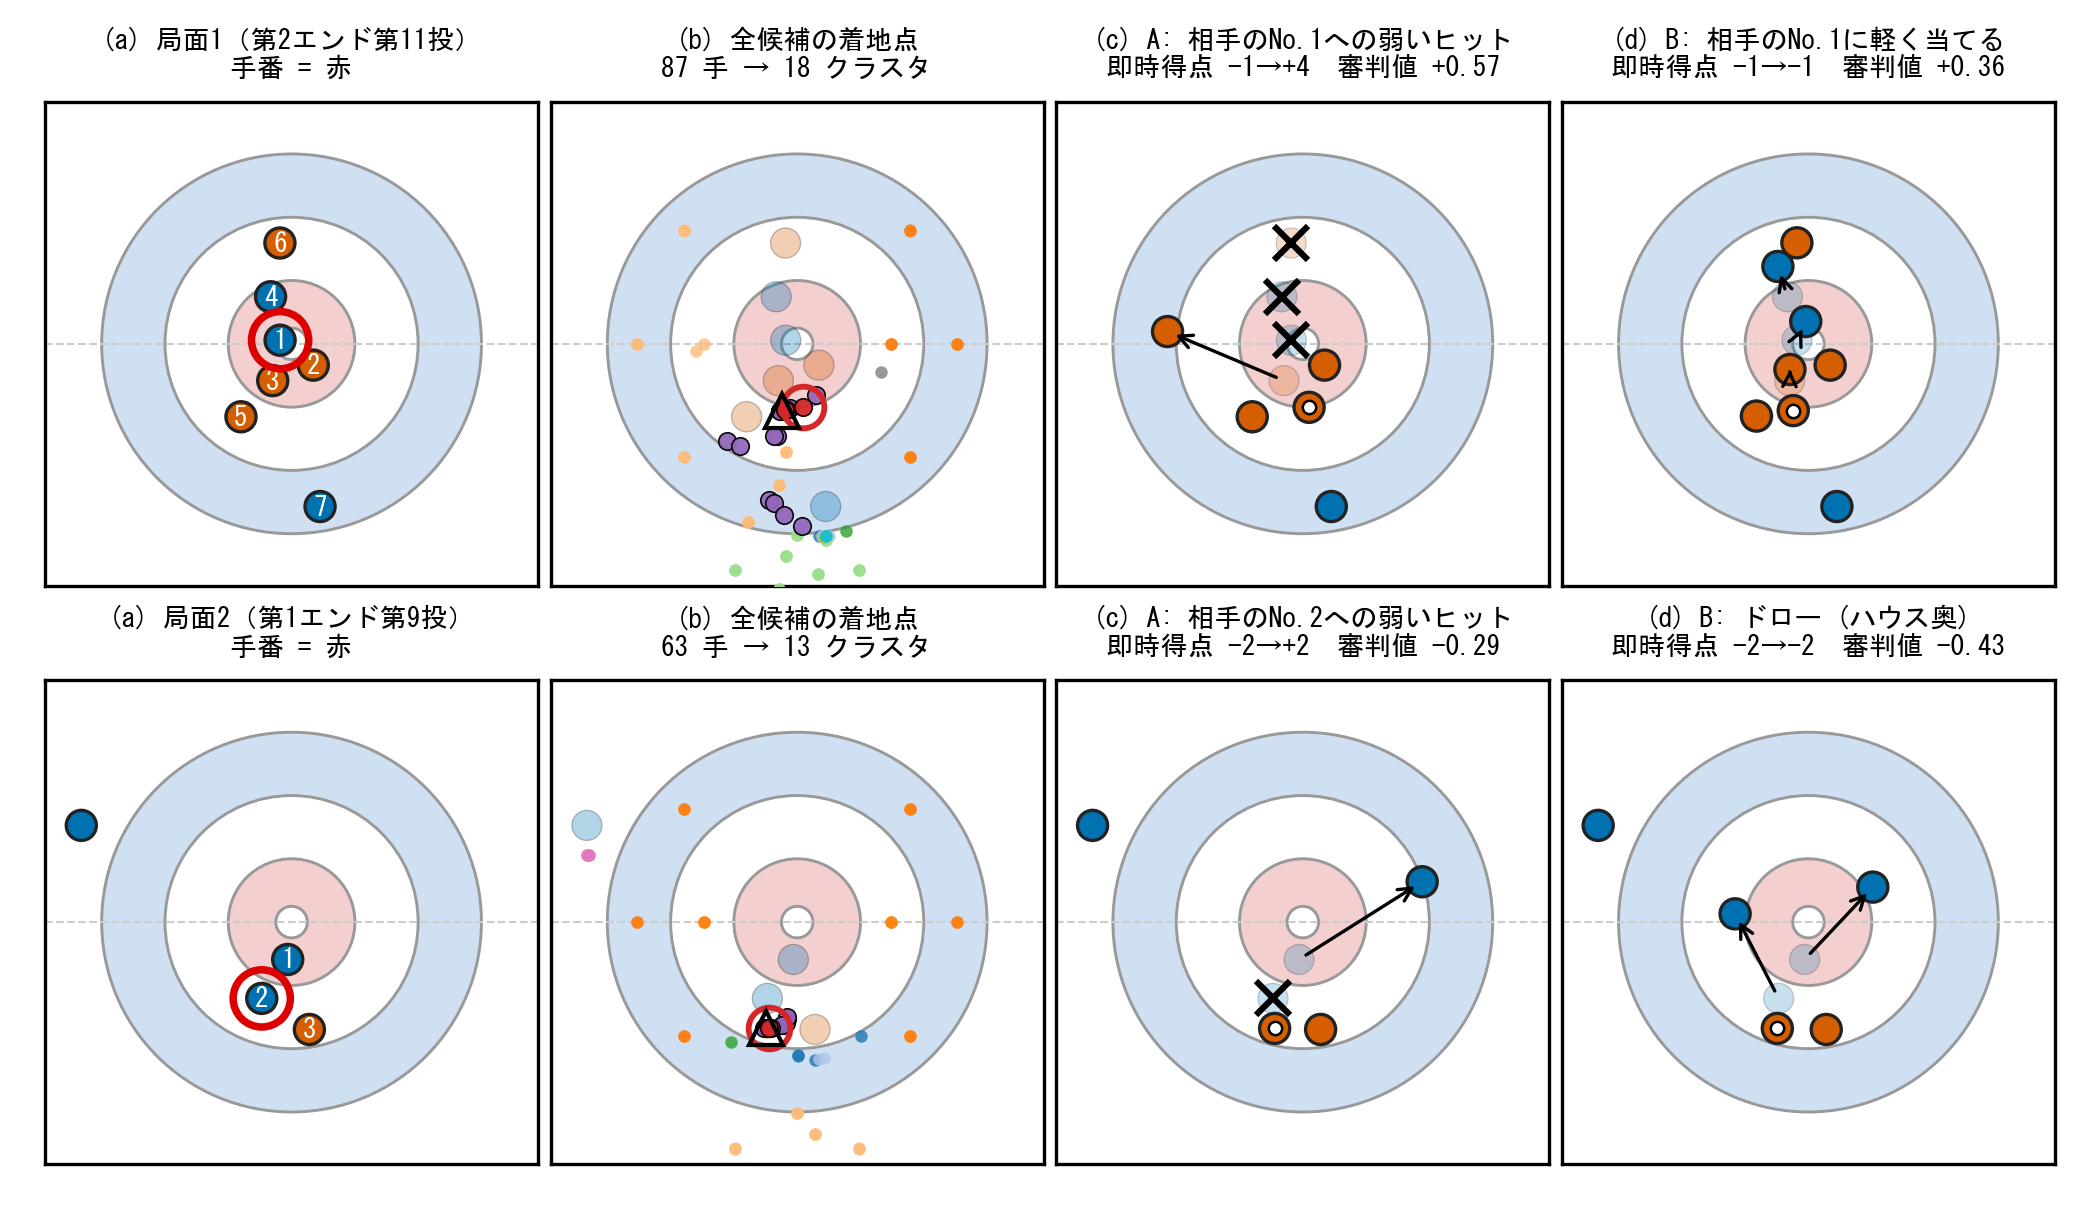
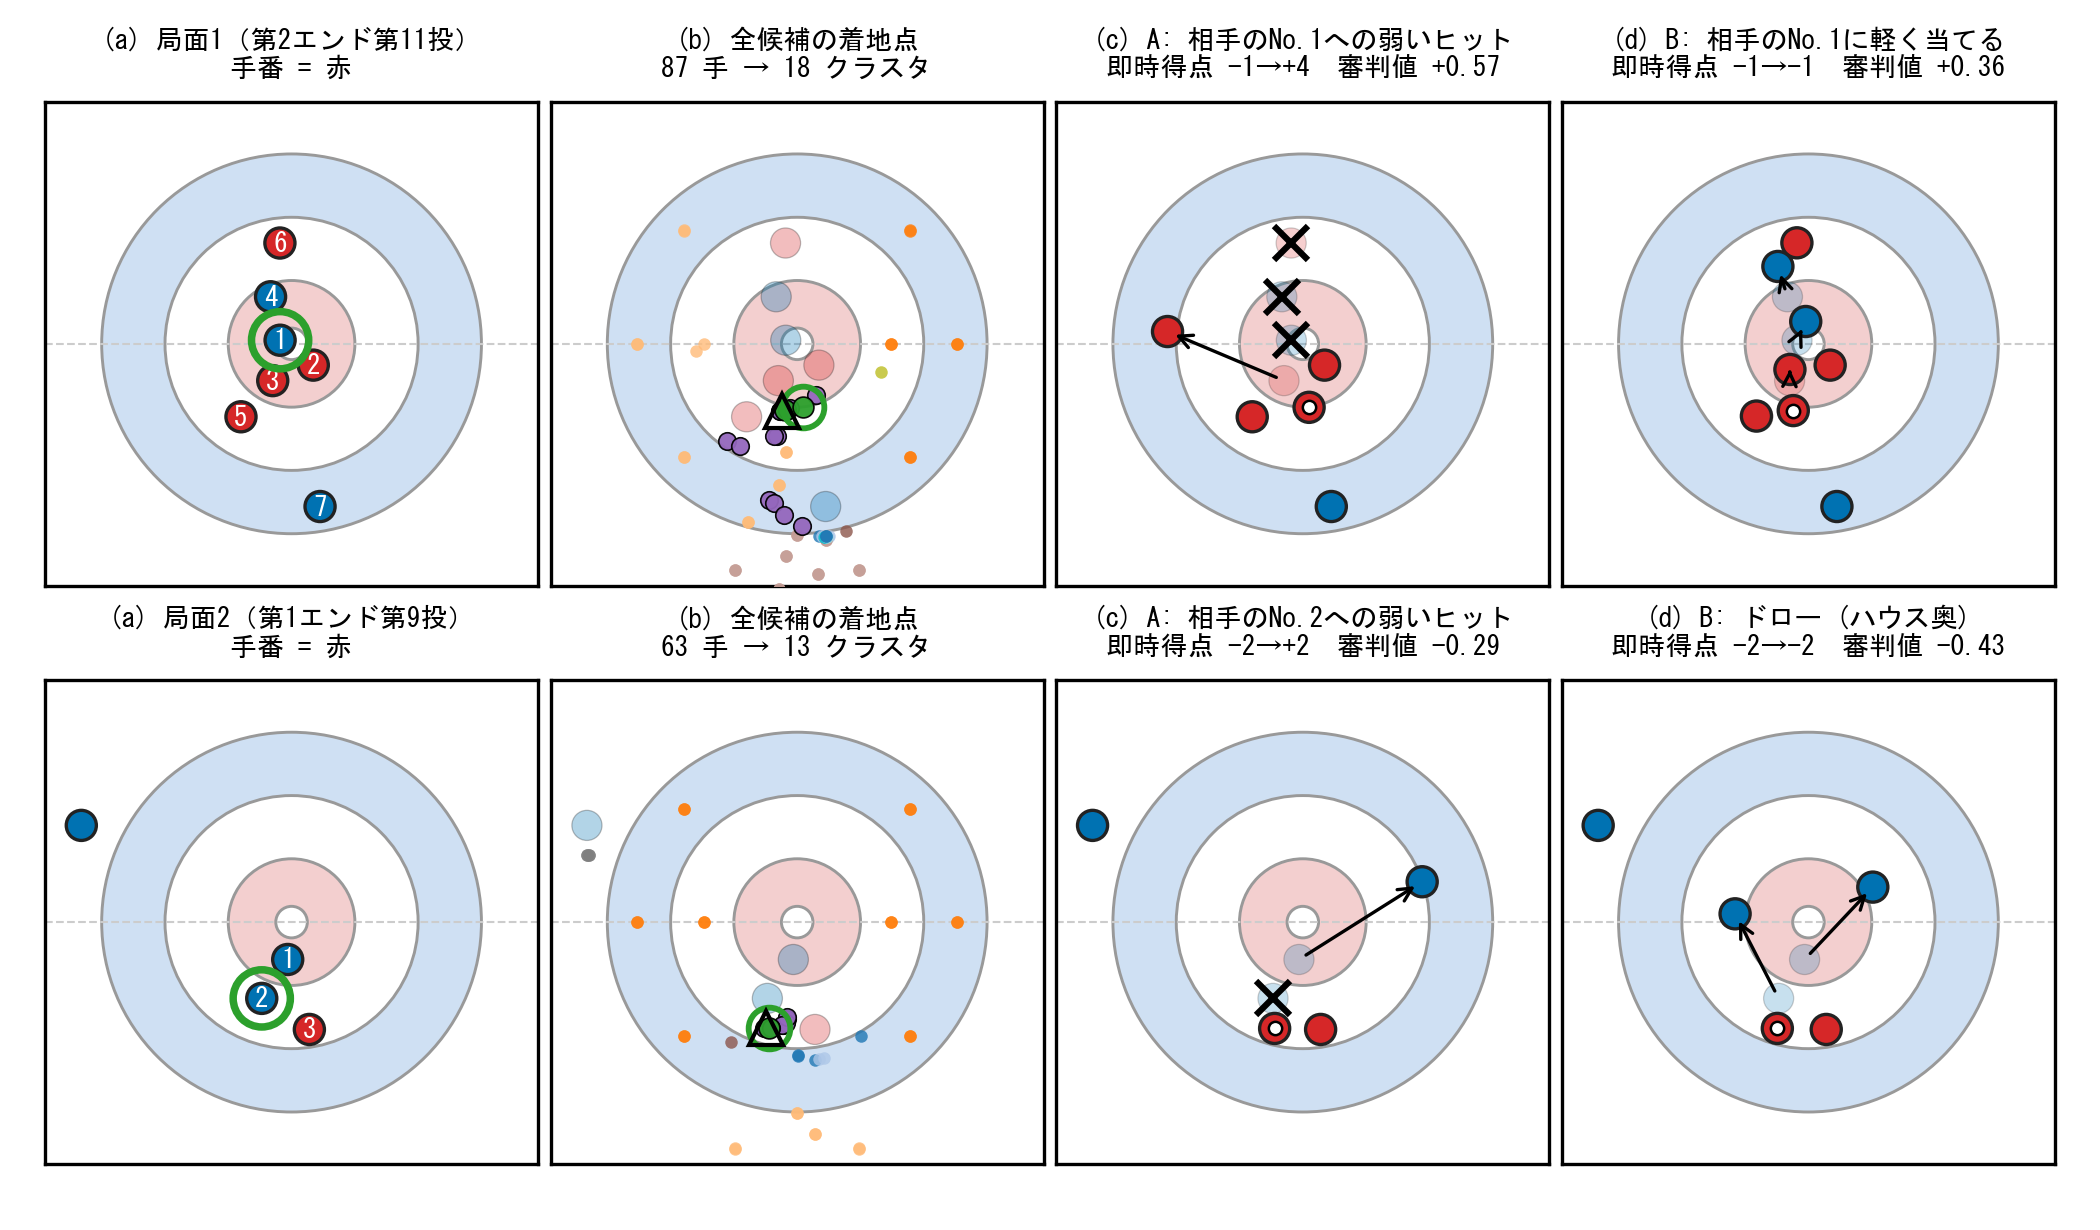
docs: GPW draft -- red stones for the side to move, green highlights in the case figure; best-move cluster drawn on top

diff --git a/scripts/plot_small_cluster_catalog.py b/scripts/plot_small_cluster_catalog.py
@@ -24,6 +24,7 @@ ROOT = os.path.dirname(os.path.dirname(os.path.abspath(__file__)))
 sys.path.insert(0, ROOT + "/scripts")
 from plot_board import HC_X, HC_Y, R12, R8, R4, RBTN, SR, AREA_X, C0, C1
 plt.rcParams["font.family"] = "MS Gothic"; plt.rcParams["axes.unicode_minus"] = False
+HL = "#d00"   # 強調色 (最良手が狙う石の円など)。論文の図 (paper) では石を赤にするので緑に変える
 GE = ROOT + "/gpw_experiment"
 D = sys.argv[1]
 OUT = D + "/catalog"
@@ -202,7 +203,7 @@ def panel_input(ax, P):
         x, y = P["inp"][s]
         ax.text(x, y, str(n), ha="center", va="center", fontsize=6.5, color="w", weight="bold", zorder=4)
     if P["target"] in P["inp"]:
-        ax.add_patch(Circle(P["inp"][P["target"]], SR * 1.9, facecolor="none", edgecolor="#d00", lw=1.8, zorder=5))
+        ax.add_patch(Circle(P["inp"][P["target"]], SR * 1.9, facecolor="none", edgecolor=HL, lw=1.8, zorder=5))
 
 def land(P, c):
     s = (P["me"], P["k"][2] // 2)
@@ -382,13 +383,16 @@ def short_desc(P, c):
 
 def paper(cases, out):
     """論文 (6章) の図: 行 = 局面, 列 = (a) 局面 (b) 全候補の着地点 (クラスタ色) (c) 最良手 A の結果 (d) 別の道 B の結果。
-    (b) は最良手のクラスタを赤, 別の道 B (paths_rows.csv) のクラスタを紫, 他のクラスタを薄い色で描く。
+    (b) は最良手のクラスタを緑, 別の道 B (paths_rows.csv) のクラスタを紫, 他のクラスタを薄い色で描く。
+    手番側 (team 0) の石は赤で描く (本文で「赤」と呼ぶため。2026-10-20)。
     クラスタなし (ScoreTopK) の 4 手は論文に載せないので描かない。"""
+    global C0, HL
+    C0, HL = "#D62728", "#2CA02C"
     B = {(int(r["game"]), int(r["end"]), int(r["shot"])): int(r["B_idx"])
          for r in csv.DictReader(open(D + "/paths_rows.csv", encoding="utf-8")) if r["has_B"] == "1"}
     Ps = [per_position(k) for k in cases]
     fig, axes = plt.subplots(len(Ps), 4, figsize=(7.0, 2.05 * len(Ps)), squeeze=False)
-    others = [c for i, c in enumerate(plt.get_cmap("tab20").colors) if i not in (6, 7, 8, 9)]   # 赤と紫は除く
+    others = [c for i, c in enumerate(plt.get_cmap("tab20").colors) if i not in (4, 5, 6, 7, 8, 9)]   # 緑・赤・紫は除く
     for i, P in enumerate(Ps):
         g, e, s = P["k"]
         b = B[P["k"]]
@@ -401,16 +405,17 @@ def paper(cases, out):
         draw_stones(ax, P["inp"], alpha=0.3, lw=0.3)
         rest = [c for c in sorted(set(cl.values())) if c not in (cl[best], cl.get(b))]
         color = {c: others[j % len(others)] for j, c in enumerate(rest)}
-        color[cl[best]] = "#d62728"
+        color[cl[best]] = HL
         if b is not None: color[cl[b]] = "#9467bd"
         for c in cl:
             p = land(P, c)
             if not p: continue
             hi = cl[c] in (cl[best], cl.get(b))
-            ax.plot(*p, "o", ms=4.2 if hi else 3.0, color=color[cl[c]], alpha=0.95 if hi else 0.8,
-                    mec="k" if hi else "none", mew=0.4, zorder=5 if hi else 4)
+            top = cl[c] == cl[best]   # 最良手のクラスタは他の点に隠れないよう最前面に描く
+            ax.plot(*p, "o", ms=5.0 if top else (4.2 if hi else 3.0), color=color[cl[c]], alpha=0.95 if hi else 0.8,
+                    mec="k" if hi else "none", mew=0.4, zorder=6 if top else (5 if hi else 4))
         p = land(P, best)
-        if p: ax.plot(*p, "o", ms=10, mfc="none", mec="#d62728", mew=1.4, zorder=7)
+        if p: ax.plot(*p, "o", ms=10, mfc="none", mec=HL, mew=1.4, zorder=7)
         if land(P, b): ax.plot(*land(P, b), "^", ms=8, mfc="none", mec="k", mew=1.0, zorder=7)
         for col, c, head in ((2, best, "(c) A"), (3, b, "(d) B")):
             sc1 = change(P["inp"], P["res"][c], P["me"])[3]
